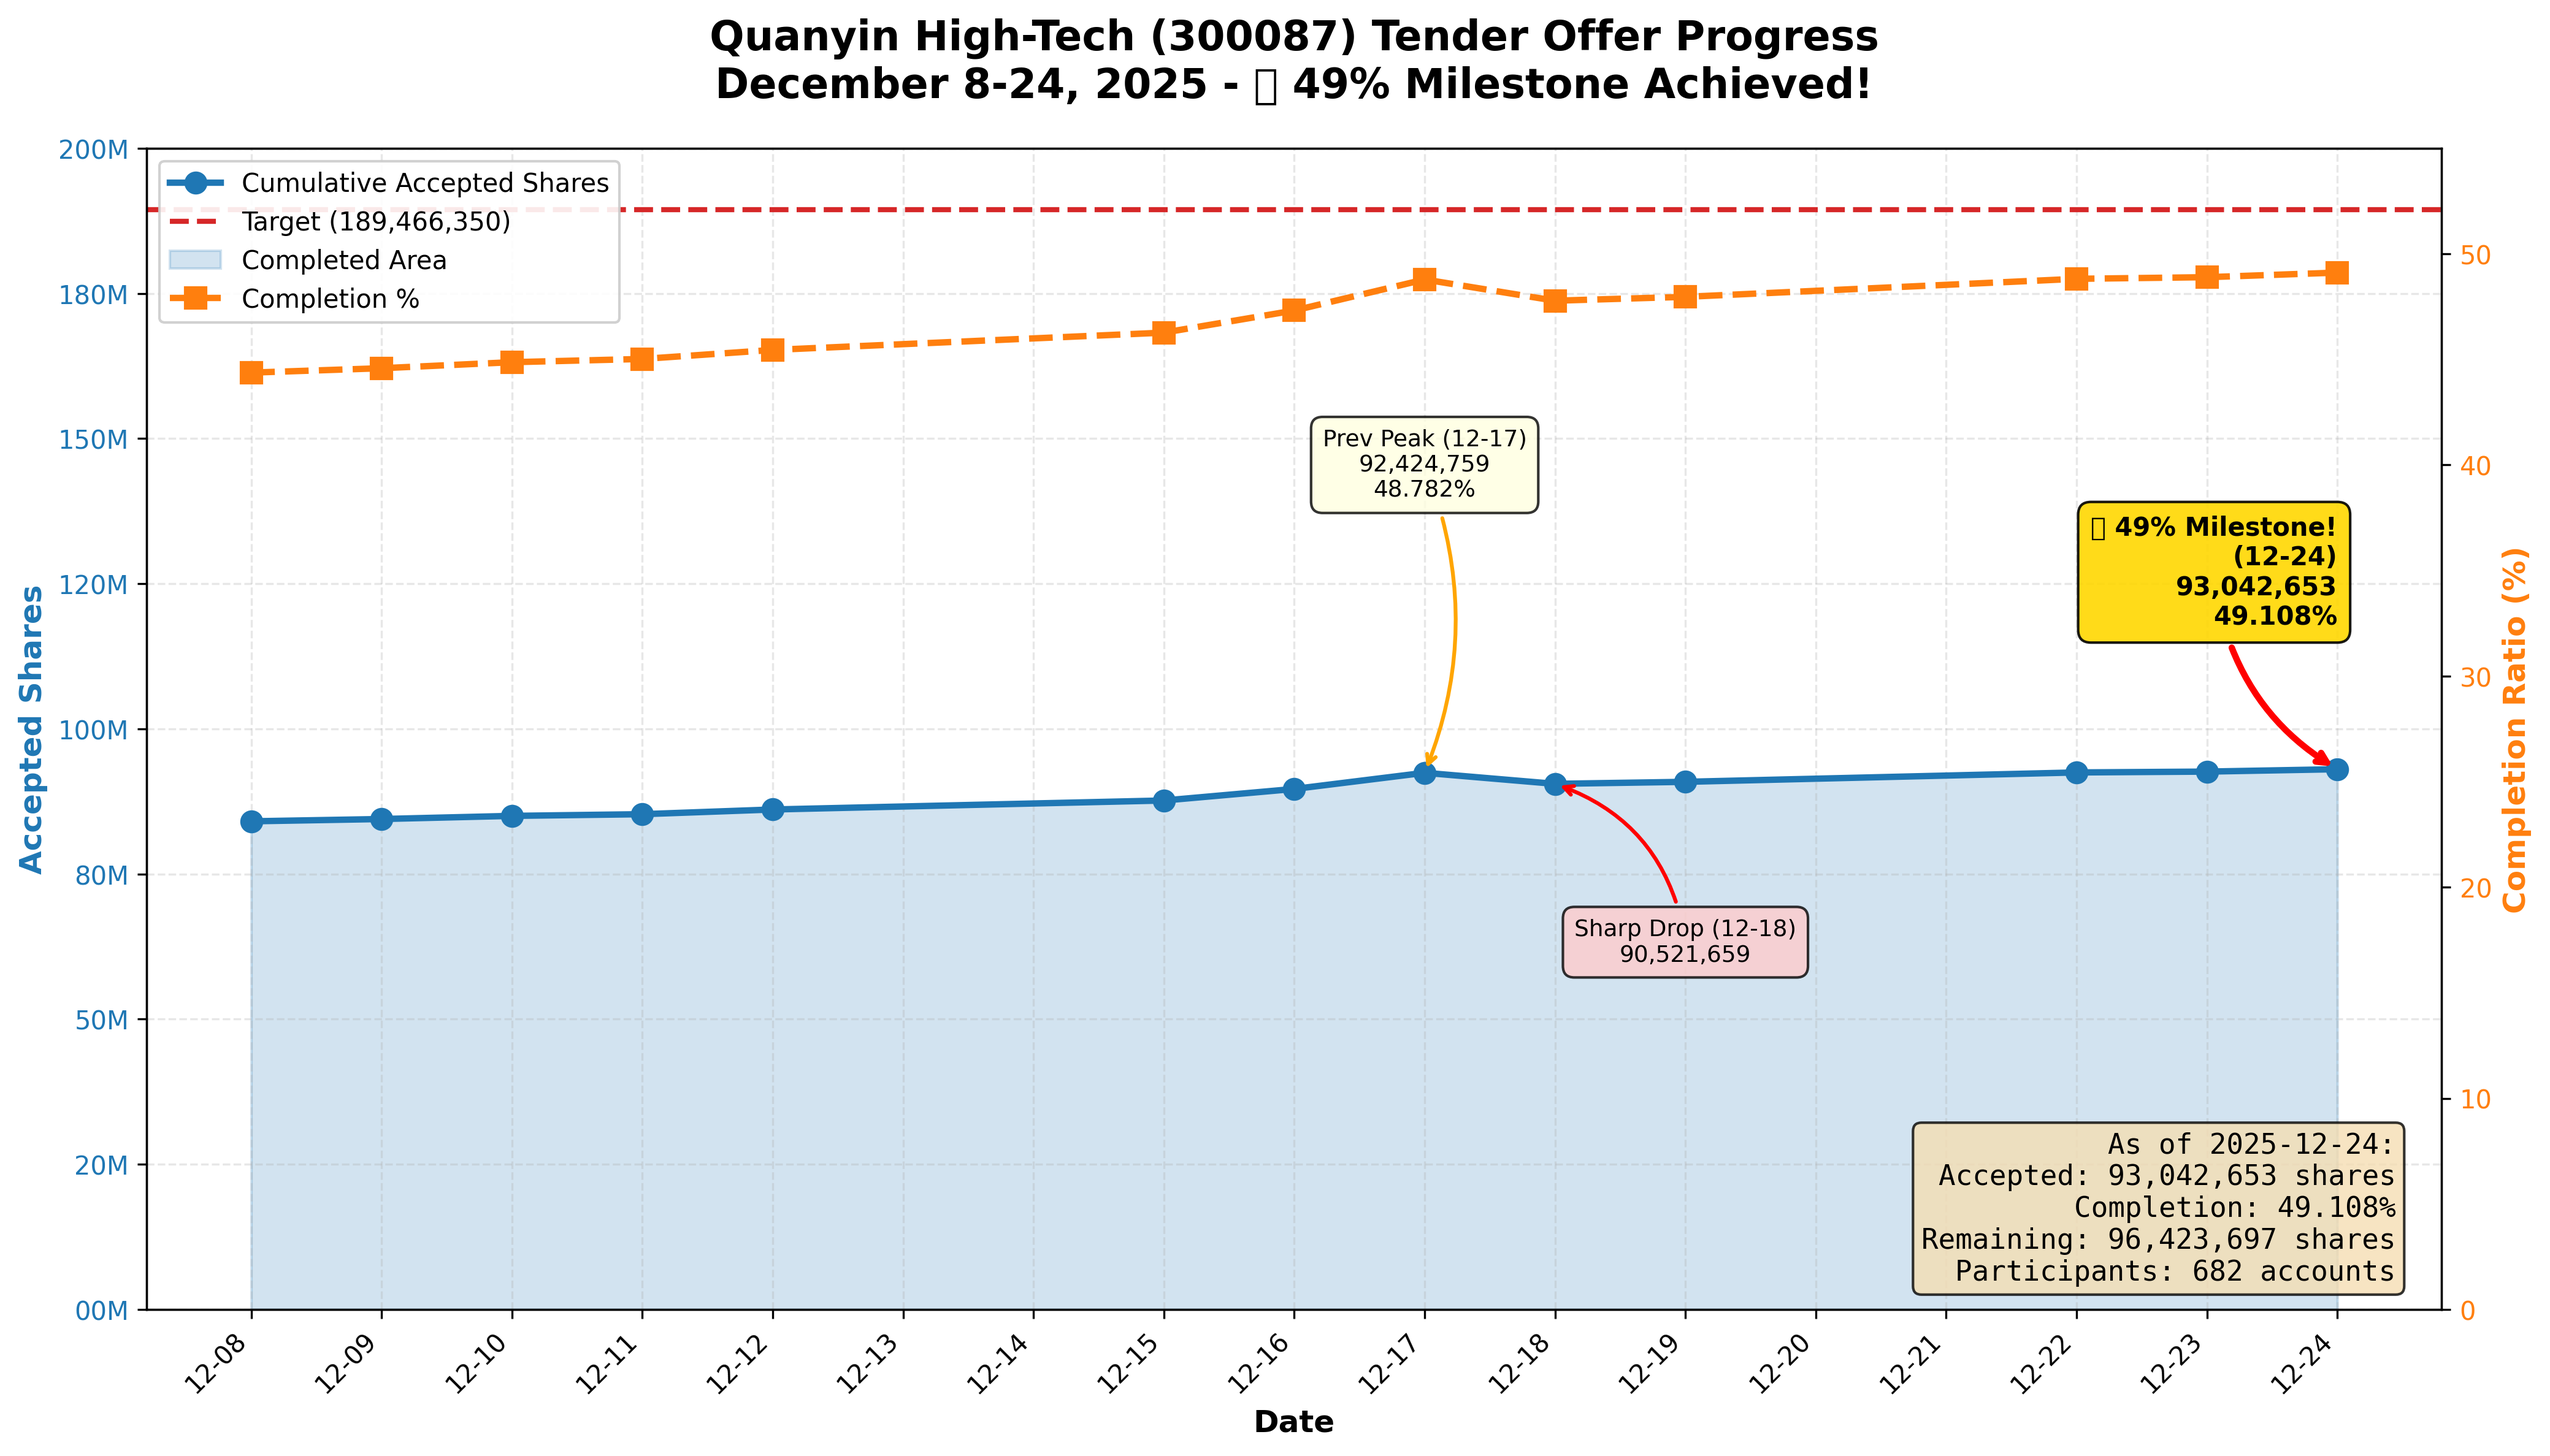
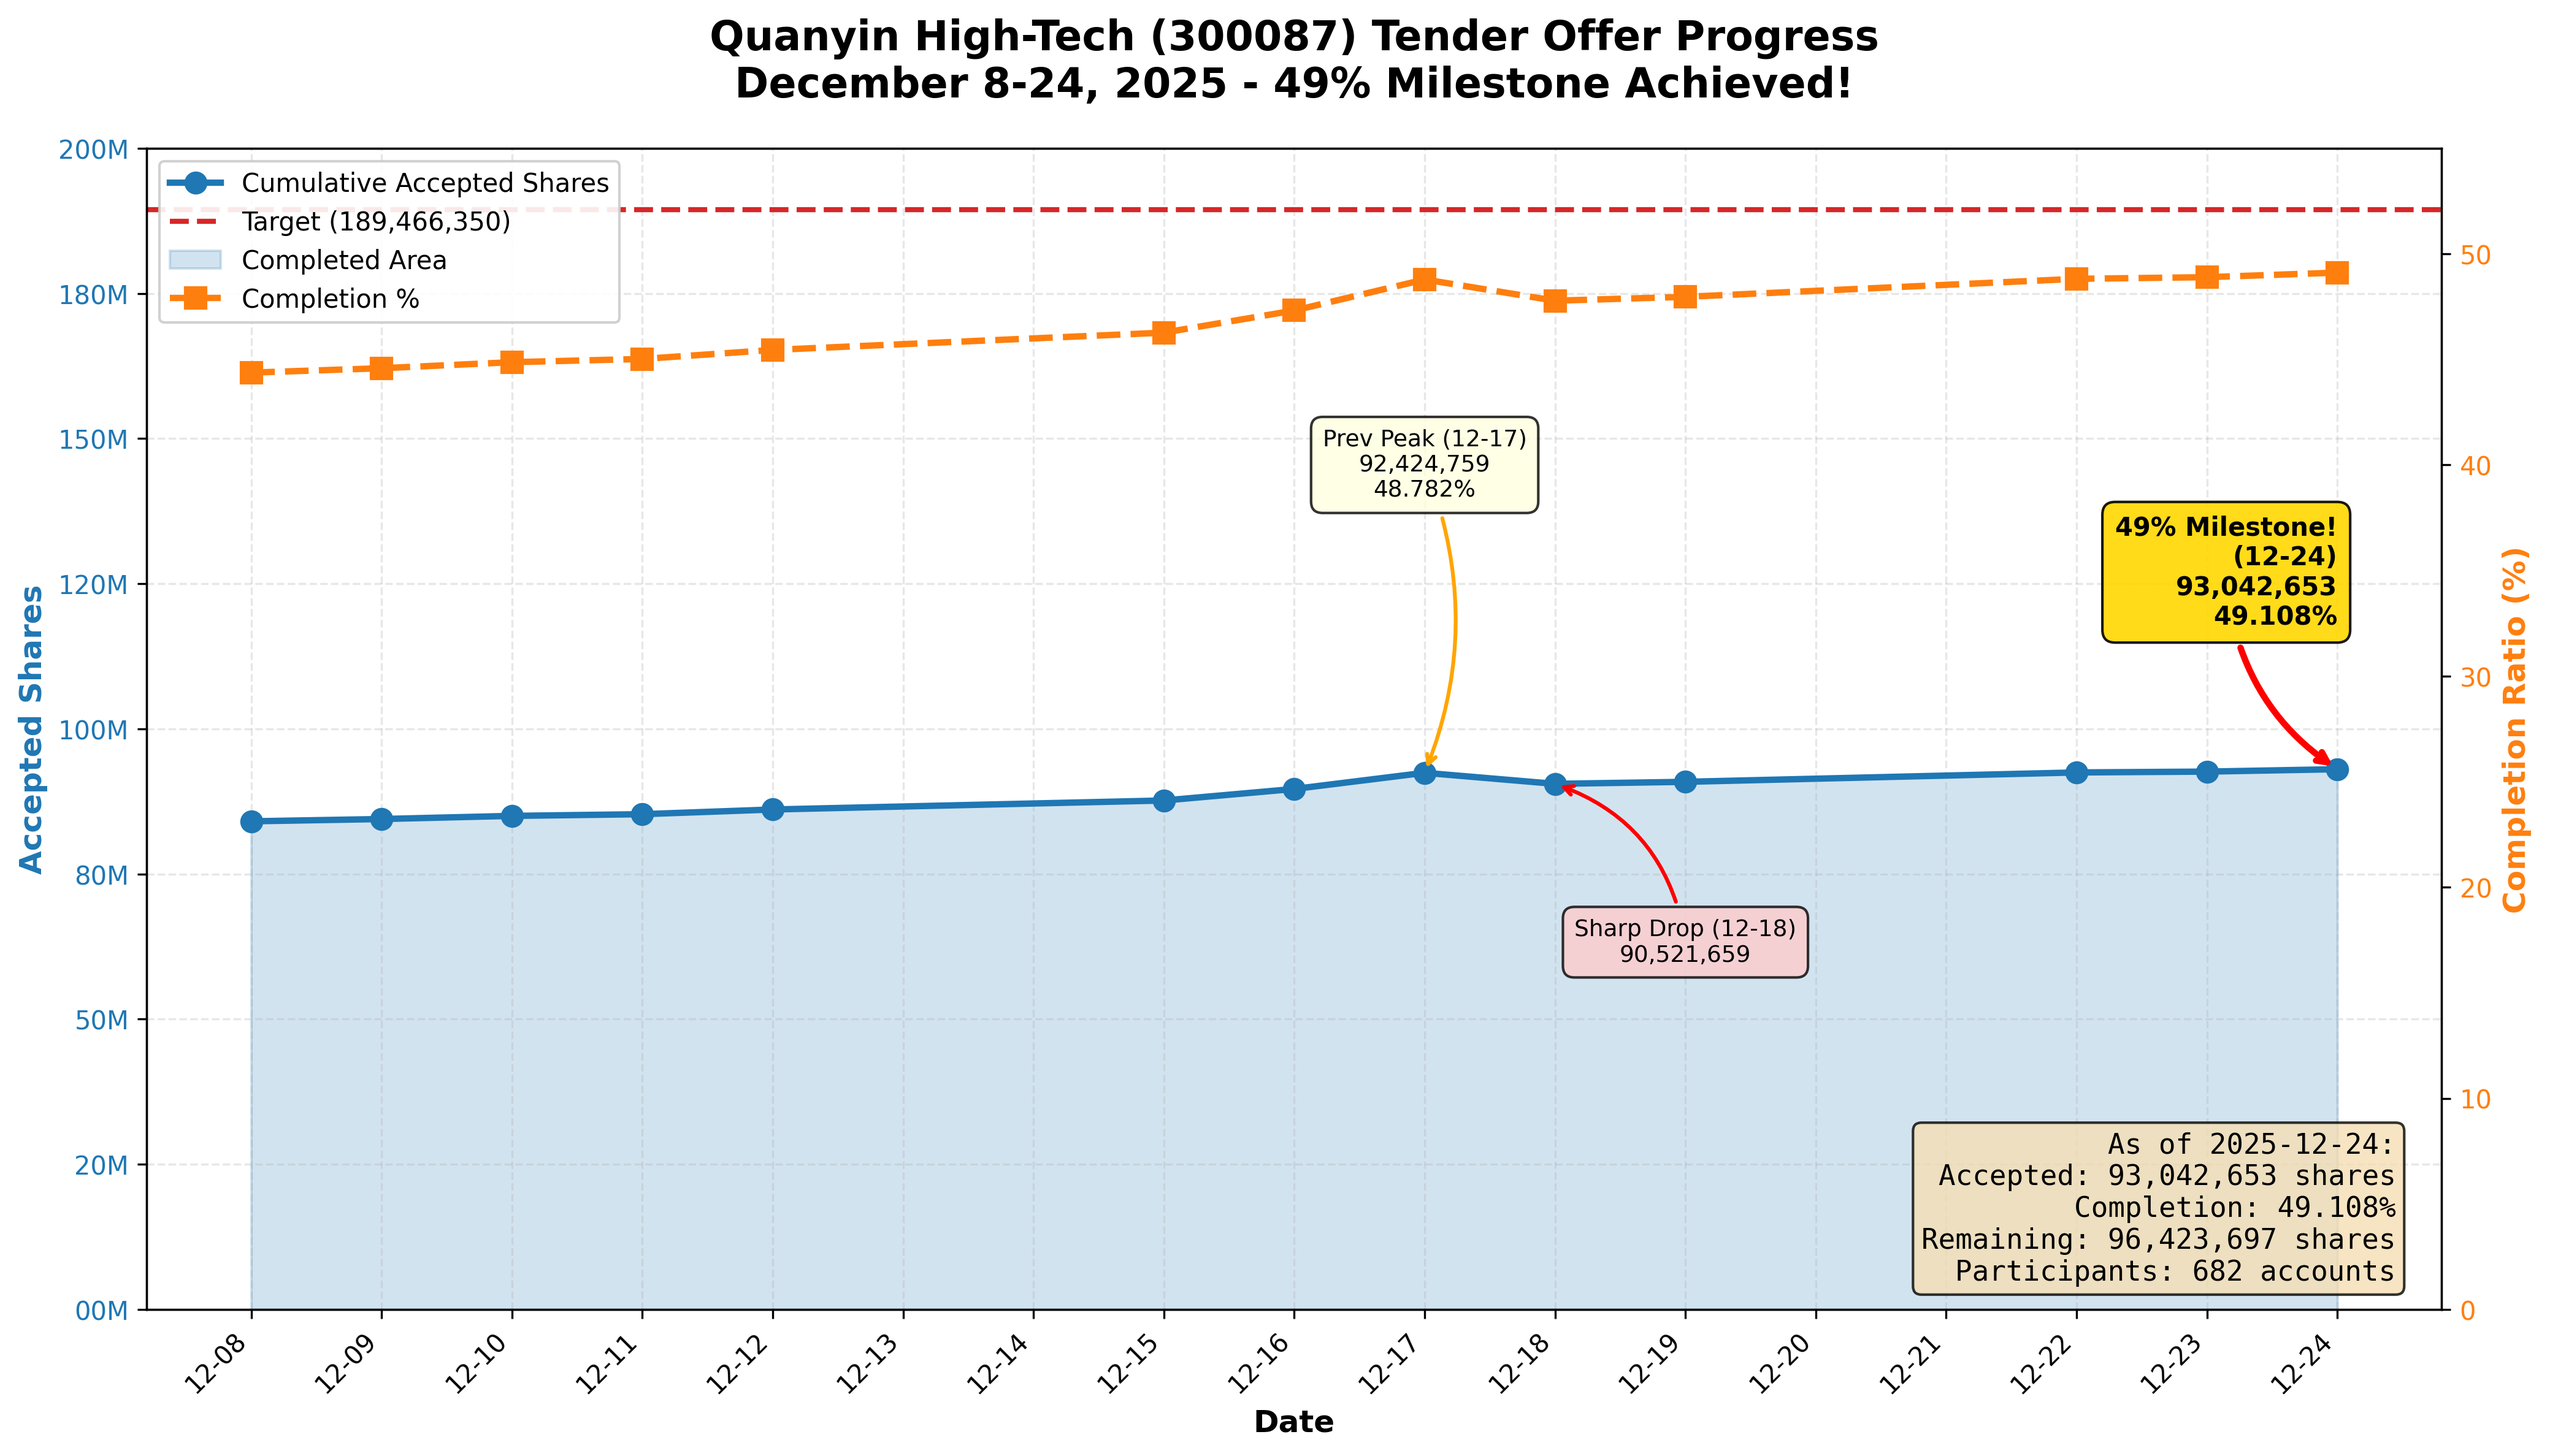
移除图表中的表情符号，解决字符显示问题

Changed region(s): [[0.2792, 0.0312, 0.7446, 0.0935], [0.8066, 0.3427, 0.8377, 0.4362], [0.8687, 0.4362, 0.8997, 0.4985]]

diff --git a/05_quanyin_tender_offer/generate_chart.py b/05_quanyin_tender_offer/generate_chart.py
@@ -119,7 +119,7 @@ plt.setp(ax1.xaxis.get_majorticklabels(), rotation=45, ha='right')
 # Annotate key points - positioned in blank areas to avoid covering data
 # Peak point (12-24) - positioned in right area with 49% milestone
 peak_idx = completion_ratio.index(max(completion_ratio))
-ax1.annotate(f'🎉 49% Milestone!\n(12-24)\n{cumulative_shares[peak_idx]:,}\n{completion_ratio[peak_idx]}%',
+ax1.annotate(f'49% Milestone!\n(12-24)\n{cumulative_shares[peak_idx]:,}\n{completion_ratio[peak_idx]}%',
              xy=(date_objects[peak_idx], cumulative_shares[peak_idx]),
              xytext=(date_objects[-1], 118000000),
              bbox=dict(boxstyle='round,pad=0.5', facecolor='gold', alpha=0.9),
@@ -148,7 +148,7 @@ ax1.annotate(f'Sharp Drop (12-18)\n{cumulative_shares[drop_idx]:,}',
              fontsize=9, ha='center')
 
 # Title
-plt.title('Quanyin High-Tech (300087) Tender Offer Progress\nDecember 8-24, 2025 - 🎉 49% Milestone Achieved!',
+plt.title('Quanyin High-Tech (300087) Tender Offer Progress\nDecember 8-24, 2025 - 49% Milestone Achieved!',
           fontsize=16, fontweight='bold', pad=20)
 
 # Merge legends
